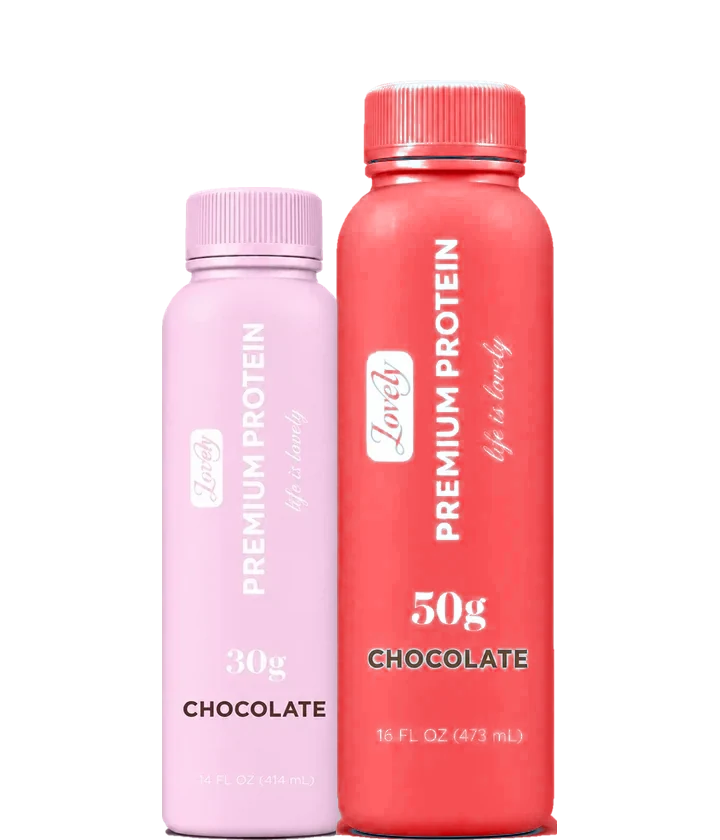
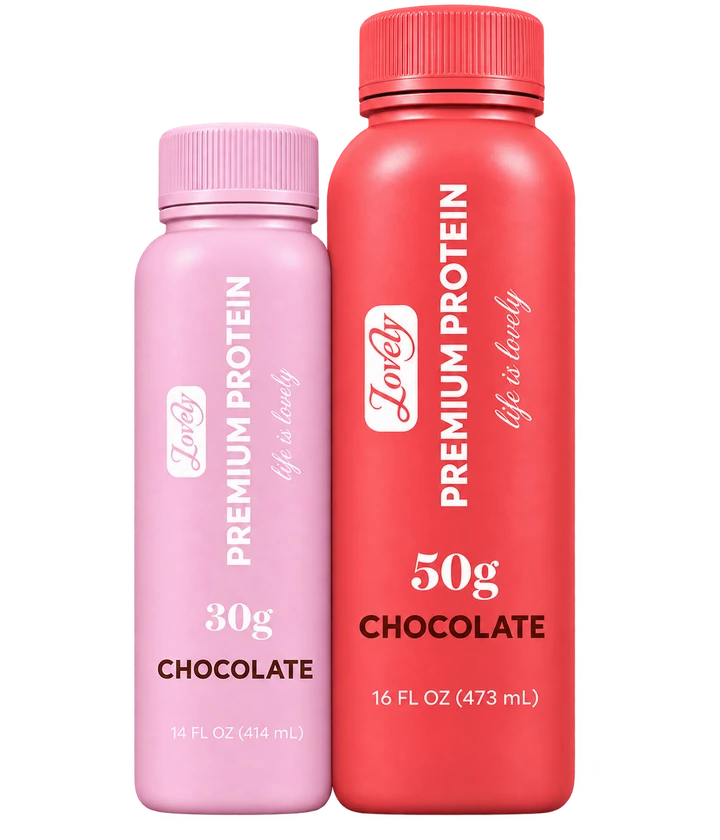
New 30g vs 50g size photo
Claude-Session: https://claude.ai/code/session_01AzpPYfJ2iNTin5mbwrihoY

diff --git a/index.html b/index.html
@@ -1221,7 +1221,7 @@ header.top { background: var(--bg) !important; backdrop-filter: none !important;
 <p class="wrap small" style="margin-top:12px"><span class="ph">Sample posts for layout. Replace with real #lifeislovely posts before launch.</span></p>
 </section>
 <section class="every-sec" id="every" aria-labelledby="h-every"><div class="wrap every-in">
-  <div class="every-pic"><img src="img/size_compare.webp" alt="A Lovely 30g and a Lovely 50g protein shake side by side" width="720" height="840" loading="lazy"></div>
+  <div class="every-pic"><img src="img/size_compare.webp?v=2" alt="A Lovely 30g and a Lovely 50g protein shake side by side" width="720" height="840" loading="lazy"></div>
   <div><p class="kick">Every <span class="swl"><span>Lovely</span></span> and Lovely 50g</p><h2 id="h-every">What's in it. <em>What never is.</em></h2>
   <p class="lead">Go ahead, flip it over. We'll wait.</p>
   <div class="eben">
